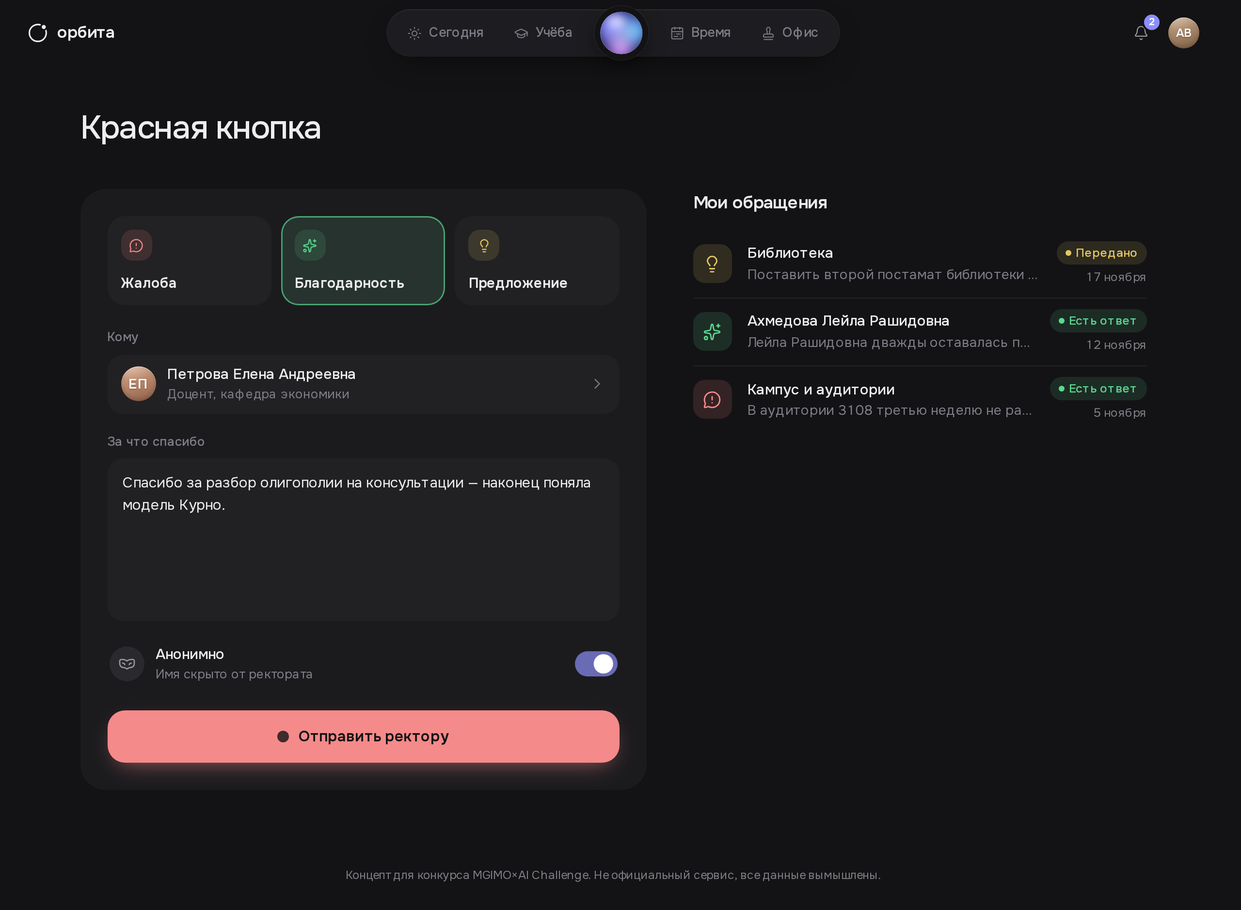
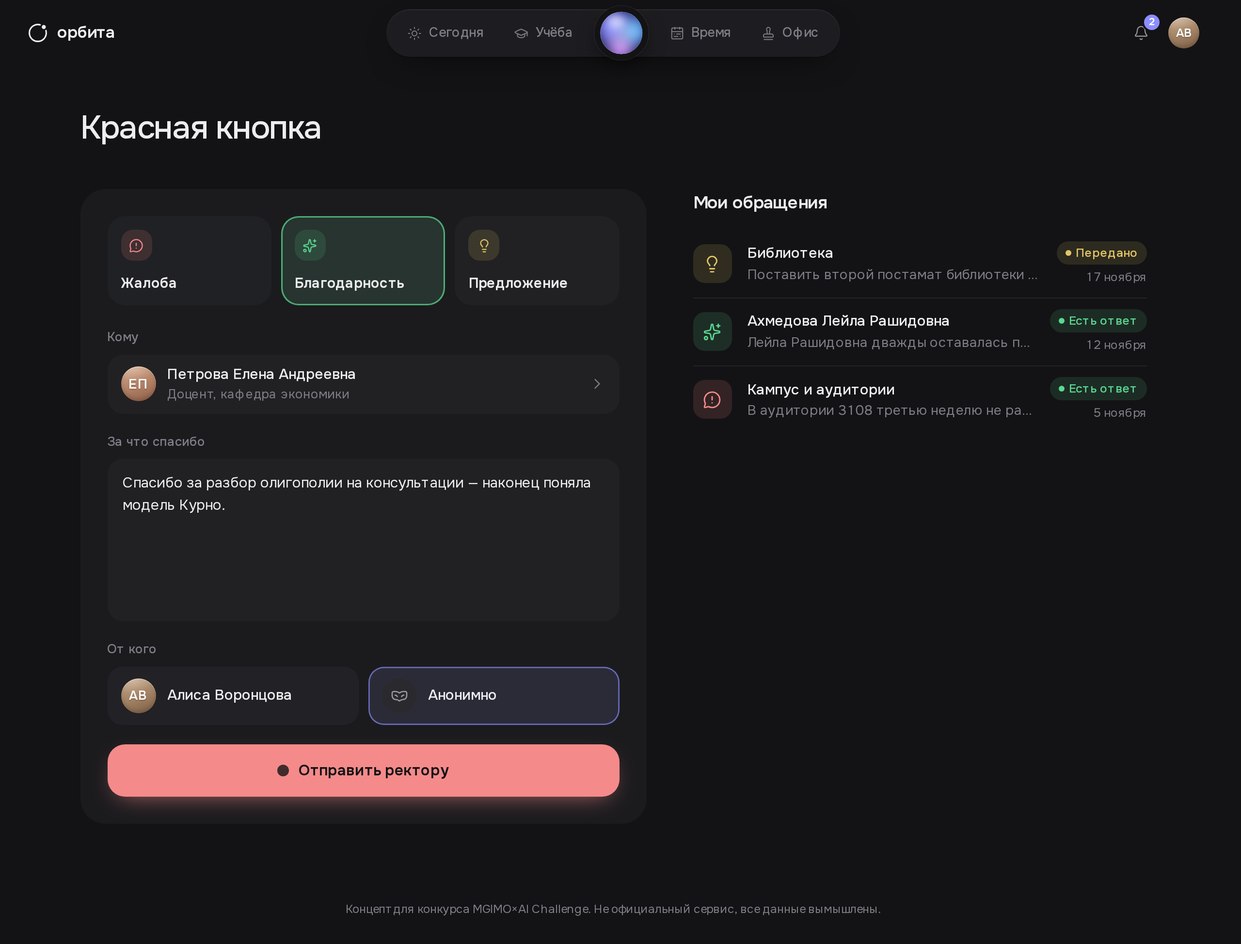
Красная кнопка: «От кого» — своё имя или анонимно, двумя вариантами
Вместо переключателя в строке автора (непонятно, что он переключает, пока не нажмёшь) —
поле «От кого» с двумя вариантами рядом, как плитки вида обращения: аватар с именем
или маска «Анонимно». На телефоне — только имя, всё помещается от 360 px.

diff --git a/web/src/components/appeals/appeals-view.tsx b/web/src/components/appeals/appeals-view.tsx
@@ -7,7 +7,6 @@ import {
   MessageCircleWarning, Search, ShieldCheck, Sparkles, UtensilsCrossed, VenetianMask, type LucideIcon,
 } from "lucide-react";
 import { Modal } from "@/components/time/modal";
-import { Switch } from "@/components/profile/privacy";
 import { useToast } from "@/components/ui/toast";
 import { KINDS, RECTOR_OFFICE, STATUS, TEXT_MAX, TEXT_MIN, kindOf, type AppealKind } from "@/lib/appeals";
 import { cn } from "@/lib/utils";
@@ -204,25 +203,53 @@ export function AppealsView({ data }: { data: AppealsData }) {
             />
           </label>
 
-          <label className="mt-4 flex min-h-[56px] cursor-pointer items-center gap-3 rounded-[16px] px-0.5" data-author>
-            {anonymous ? (
-              <span className="grid size-9 shrink-0 place-items-center rounded-full bg-s3 text-text-2" aria-hidden="true">
-                <VenetianMask size={18} strokeWidth={1.7} />
-              </span>
-            ) : data.me.photo ? (
-              // eslint-disable-next-line @next/next/no-img-element
-              <img src={data.me.photo} alt="" className="size-9 shrink-0 rounded-full object-cover" />
-            ) : (
-              <span aria-hidden="true" className="mono grid size-9 shrink-0 place-items-center rounded-full text-[13px] font-semibold" style={{ background: data.me.gradient }}>
-                {data.me.initials}
-              </span>
-            )}
-            <span className="min-w-0 flex-1">
-              <b className="block truncate font-medium">{anonymous ? "Анонимно" : data.me.name}</b>
-              <small className="block truncate text-[13px] text-text-3">{anonymous ? "Имя скрыто от ректората" : data.me.line}</small>
+          <div className="mt-5">
+            <span className={LABEL} id="appeal-from">
+              От кого
             </span>
-            <Switch on={anonymous} label="Анонимно" onClick={() => setAnonymous((v) => !v)} />
-          </label>
+            <div role="radiogroup" aria-labelledby="appeal-from" className="grid grid-cols-2 gap-2.5 max-sm:gap-2" data-author>
+              {([false, true] as const).map((anon) => {
+                const on = anonymous === anon;
+                return (
+                  <button
+                    key={String(anon)}
+                    type="button"
+                    role="radio"
+                    aria-checked={on}
+                    data-from={anon ? "anon" : "me"}
+                    onClick={() => setAnonymous(anon)}
+                    className={cn(
+                      "flex min-h-[60px] min-w-0 items-center gap-3 rounded-[16px] px-3.5 py-2.5 text-left transition-[background,box-shadow,transform] duration-300 ease-spring active:scale-[.97] max-sm:gap-2 max-sm:px-2.5 max-sm:[&>img]:size-8 max-sm:[&>span]:size-8",
+                      on ? "bg-[color-mix(in_srgb,var(--accent)_10%,var(--s2))] shadow-[inset_0_0_0_1.5px_color-mix(in_srgb,var(--accent)_70%,transparent)]" : "bg-s2 hover:bg-s3",
+                    )}
+                  >
+                    {anon ? (
+                      <span className="grid size-9 shrink-0 place-items-center rounded-full bg-s3 text-text-2" aria-hidden="true">
+                        <VenetianMask size={18} strokeWidth={1.7} />
+                      </span>
+                    ) : data.me.photo ? (
+                      // eslint-disable-next-line @next/next/no-img-element
+                      <img src={data.me.photo} alt="" className="size-9 shrink-0 rounded-full object-cover" />
+                    ) : (
+                      <span aria-hidden="true" className="mono grid size-9 shrink-0 place-items-center rounded-full text-[13px] font-semibold" style={{ background: data.me.gradient }}>
+                        {data.me.initials}
+                      </span>
+                    )}
+                    <b className="min-w-0 truncate font-medium max-sm:text-[14.5px]">
+                      {anon ? (
+                        "Анонимно"
+                      ) : (
+                        <>
+                          <span className="max-sm:hidden">{data.me.name}</span>
+                          <span className="sm:hidden">{data.me.name.split(" ")[0]}</span>
+                        </>
+                      )}
+                    </b>
+                  </button>
+                );
+              })}
+            </div>
+          </div>
 
           <button
             type="button"

diff --git a/docs/vision.md b/docs/vision.md
@@ -189,6 +189,6 @@
 - 2026-11-21: поиск людей, по замечаниям. Расписание в карточке — **личное**, а не групповое: пары курсов, на которые записан человек (у одногруппников разные курсы по выбору); из пар с шифром группы — только своей группы и потока. Приватность — окном (кнопка «Приватность» у контактов в профиле и на своей карточке), там же «Как меня видят другие». Справочник наполнен: 5 факультетов, 11 программ, ~90 групп, ~1800 студентов, ~70 преподавателей, ~250 курсов с расписанием демо-недели (`prisma/seed-directory.ts`, детерминированный генератор, входа у этих аккаунтов нет). Плитка «Преподаватели» убрана — есть «Люди» (закреплена по умолчанию). Расписание в карточке (студент и преподаватель) — полоса дней Пн–Сб и пары одного дня строками, монохромно, цвет курса только точкой: цветная сетка недели читалась тяжело. Неделю можно листать стрелками ‹ › на ±3 недели, как во «Времени» (`?week=<понедельник>`); у справочника одинаковые недели с 26 октября по 12 декабря, у курсов демо-студентов пары есть только 16–27 ноября (как в их «Времени»). На телефоне контакты над расписанием. Помощник: «кто староста», «почта куратора», «кто куратор у Жукова», «расписание Матвея Жукова на вторник», «пары Петровой завтра».
 - 2026-11-22: кабинет преподавателя (`e.petrova`), каркас на тех же адресах, что у студента: раздел выбирается по роли на сервере. «Сегодня» — ближайшая пара с группой, аудиторией и числом студентов, «Дальше сегодня», плитки (Проверка со счётчиком, Журнал, Консультации, Курсы, Люди, Печать), очередь «На проверке» и курсы со средним баллом. «Курсы» (в доке вместо «Учёбы»): карточки курсов, «Проверка» (работы старые сверху, окно: файл, быстрая оценка 5–10, комментарий, «На доработку») и «Журнал» (студенты × элементы формулы, правка в ячейке, агрегаты и итог считаются сами). Проверка сразу видна студенту: статус, балл и уведомление. Страница курса: цифры, задания со сдачей, материалы (заглушка), формула, команда; **учебные ассистенты** — старшекурсники и магистранты (не студенты курса), права «проверять работы» и «ставить оценки» переключателями (`CourseAssistant`). «Время» — та же сетка, что у студента, плюс свои слоты консультаций (новый слот сразу виден студентам курса). «Офис» — ведомости и заявки (каркас), «Печать» открыта преподавателям. Связь преподавателя-пользователя со справочником — по университетской почте. Второй курс Петровой — магистерская «Экономика цифровых платформ» (ЦЭ-26-М). Проверка — `scripts/teach-check.mjs`.
 - 2026-11-22: бронирование аудиторий (`/rooms`, плитка «Аудитории» на «Сегодня»), как в ИТМО и как переговорки в больших компаниях. Бронируются переговорки для групповой работы (8 комнат с именами звёзд: «Вега», «Лира», «Орион»…) и учебные аудитории, когда в них нет пар (занятость — из расписания всех групп в БД и пар других групп по сетке звонков). Выбор: день (неделя вперёд, без воскресенья), начало с шагом 30 минут, длительность 30 мин – 2 ч, тип, сколько человек, оснащение (экран, доска, видеосвязь). У каждой комнаты — полоса дня 08:00–21:00 с занятым и выбранным временем; свободные — первыми. Отметка у двери по Орбита ID: за 15 минут до начала и до 15 минут после; не отметился — бронь снимается сама и комната свободна (как в бигтехе, против «мёртвых» броней). Можно освободить раньше. Правила на сервере: шаг и часы работы, не в прошлом, не на паре, без пересечений (в транзакции), не больше 3 будущих броней. Чужие брони — только «занято», без имён. Доступ — студентам и преподавателям: у преподавателя плитка «Аудитории» на «Сегодня» вместо «Мои курсы» (курсы и так во вкладке «Учёба» в доке). Проверки — `scripts/rooms-check.mjs`.
-- 2026-11-22: «Красная кнопка» (`/redbutton`, плитка на «Сегодня» в «Ещё», пункт в меню профиля у всех ролей) — по мотивам горячей линии «Выразительная кнопка» ВШЭ: жалоба, благодарность или предложение уходят в приёмную ректора, оттуда — в подразделение. Адресат выбирается из справочника: мои преподаватели наверху, все преподаватели, сотрудники и службы (вымышленные, `src/lib/appeals.ts`) или «Университет в целом». Анонимность — переключатель: автор хранится, чтобы видеть свои обращения, но ректорат имени не видит. В отличие от ВШЭ, где ответ приходит на почту, у нас трекер «как у посылки» (отправлено → приёмная ректора → передано → ответ), срок ответа 5 дней и уведомление об ответе. Не больше 5 обращений в сутки.
+- 2026-11-22: «Красная кнопка» (`/redbutton`, плитка на «Сегодня» в «Ещё», пункт в меню профиля у всех ролей) — по мотивам горячей линии «Выразительная кнопка» ВШЭ: жалоба, благодарность или предложение уходят в приёмную ректора, оттуда — в подразделение. Адресат выбирается из справочника: мои преподаватели наверху, все преподаватели, сотрудники и службы (вымышленные, `src/lib/appeals.ts`) или «Университет в целом». Анонимность — выбор «От кого»: своё имя или «Анонимно» (два варианта рядом; переключатель в строке автора оказался непонятным). Автор хранится, чтобы видеть свои обращения, но ректорат имени не видит. В отличие от ВШЭ, где ответ приходит на почту, у нас трекер «как у посылки» (отправлено → приёмная ректора → передано → ответ), срок ответа 5 дней и уведомление об ответе. Не больше 5 обращений в сутки.
 - 2026-11-22: «Аудитории» — бронь на три недели вперёд вместо одной (по просьбе пользователя): полоса по-прежнему из 6 дней, над ней диапазон дат и стрелки ‹ › (3 страницы, воскресенья пропускаются, до 9 декабря на демо-часах). Чужие брони на 2–3 неделе в сиде реже, чем на ближайшей. Лимит «не больше 3 броней вперёд» и отметка по Орбита ID не меняются.
 - 2026-11-22: «Еда» (`/food`, плитка «Еда» на «Сегодня» в «Ещё»): столовая, две кофейни-кафе, терраса библиотеки и фреш-бар — часы, «открыто сейчас», загруженность по получасам, меню с ценами и пометками (вегетарианское, острое, сезонное, новинка). Только просмотр, без предзаказа (решение пользователя). Меню — каталог в коде (`server/data/food.ts`), как сетка звонков: оно общее и не персональное. Загруженность считается от сетки звонков — наплыв на переменах, сильнее всего на большой (12:30–13:00), поэтому в 11:49 в столовой «свободно, наплыв в 12:30». Связка с Random Coffee: место встречи — ссылка на окно кафе (`/food?place=<slug>`), на карточке кафе — отметка встречи этой недели. Помощник отвечает на «где поесть» и «что в столовой».

diff --git a/CLAUDE.md b/CLAUDE.md
@@ -24,7 +24,7 @@
 
 ## Состояние проекта
 
-- Готово на сайте (`web/`): вход, «Сегодня», «Учёба», «Время» (сетка звонков, групповые консультации), «Офис» (заявки, PDF-справки с QR, публичная проверка `/verify/[token]`), «Профиль» (`/profile`: учёба, контакты с правкой в строке, окно студенческого с QR — это же Орбита ID, плитка «Орбита ID» на «Сегодня»; на «Сегодня» первые 5 плиток из порядка студента и «Ещё» с перетаскиванием), центр уведомлений (колокольчик, шторка, «Новое», полоса срочного — `docs/notifications.md`), архив курсов (`/study/archive`: прошлые семестры с оценками и формулой — из «Успеваемости» и профиля), страница курса (`/study/<slug>`: формула, автомат, калькулятор, задания, программа дисциплины), окно задания со сдачей файла (`?task=<id>`), карточки преподавателей (`/people/<slug>`), страница семестра (`/study/semester/<n>`), пройденный курс с материалами (настоящий PDF) и работами, темы и демоверсии контрольных и экзаменов (`/study/<slug>?comp=<id>`), «К занятию» в окне пары, рейтинг на курсе (`/study/rating`), объявление-конкурс мобильности с заявкой в «Офис» (`/news/mobility-spring-2027`), клубы (`/clubs`), библиотека (`/library`: «Мои книги» — заказы с трекером, постамат по Орбита ID, на руках, история; «Каталог» — поиск, разделы, заказ в постамат или на станцию; читалка), печать и сканы по Орбита ID (`/print`), ИИ-помощник (сфера в доке / Ctrl+K, имитация без модели: ответы по данным, справка, запись на консультацию), Random Coffee (`/coffee`: пара недели со студентом другого факультета по интересам, время из расписаний обоих, Telegram после согласия обоих), поиск людей (`/people`: ~1800 студентов и ~90 преподавателей из `prisma/seed-directory.ts`, карточка студента `/people/<логин>` — почта всегда, личное расписание по его курсам с листанием недель, телефон и Telegram по окну «Приватность»; плитка «Люди», помощник: староста, куратор, расписание человека), онбординг первокурсницы (`/welcome`: приветствие, данные, контакты, фото, выпуск Орбита ID; сбрасывается при каждом входе `n.lanskaya`; потом «Первые шаги» на «Сегодня»), бронирование аудиторий (`/rooms`: переговорки и свободные аудитории, полоса дня, фильтры по местам и оснащению, отметка по Орбита ID за 15 минут, иначе бронь снимается; плитка «Аудитории»), «Красная кнопка» (`/redbutton`: жалоба, благодарность или предложение в приёмную ректора с выбором преподавателя, сотрудника или службы, анонимно по переключателю, «Мои обращения» с трекером и ответом; плитка на «Сегодня», пункт в меню профиля), еда на кампусе (`/food`: столовая, кофейни и кафе — часы, загруженность от перемен, меню с ценами; место встречи Random Coffee ведёт в окно кафе; плитка «Еда», помощник «где поесть»), кабинет преподавателя (`e.petrova`, каркас на тех же адресах по роли: «Сегодня», «Курсы» — проверка работ и журнал, страница курса с ассистентами, «Время» со слотами консультаций, «Офис» — заглушка, «Печать»; данные — `src/server/data/teach.ts`, действия — `src/server/teach/actions.ts`).
+- Готово на сайте (`web/`): вход, «Сегодня», «Учёба», «Время» (сетка звонков, групповые консультации), «Офис» (заявки, PDF-справки с QR, публичная проверка `/verify/[token]`), «Профиль» (`/profile`: учёба, контакты с правкой в строке, окно студенческого с QR — это же Орбита ID, плитка «Орбита ID» на «Сегодня»; на «Сегодня» первые 5 плиток из порядка студента и «Ещё» с перетаскиванием), центр уведомлений (колокольчик, шторка, «Новое», полоса срочного — `docs/notifications.md`), архив курсов (`/study/archive`: прошлые семестры с оценками и формулой — из «Успеваемости» и профиля), страница курса (`/study/<slug>`: формула, автомат, калькулятор, задания, программа дисциплины), окно задания со сдачей файла (`?task=<id>`), карточки преподавателей (`/people/<slug>`), страница семестра (`/study/semester/<n>`), пройденный курс с материалами (настоящий PDF) и работами, темы и демоверсии контрольных и экзаменов (`/study/<slug>?comp=<id>`), «К занятию» в окне пары, рейтинг на курсе (`/study/rating`), объявление-конкурс мобильности с заявкой в «Офис» (`/news/mobility-spring-2027`), клубы (`/clubs`), библиотека (`/library`: «Мои книги» — заказы с трекером, постамат по Орбита ID, на руках, история; «Каталог» — поиск, разделы, заказ в постамат или на станцию; читалка), печать и сканы по Орбита ID (`/print`), ИИ-помощник (сфера в доке / Ctrl+K, имитация без модели: ответы по данным, справка, запись на консультацию), Random Coffee (`/coffee`: пара недели со студентом другого факультета по интересам, время из расписаний обоих, Telegram после согласия обоих), поиск людей (`/people`: ~1800 студентов и ~90 преподавателей из `prisma/seed-directory.ts`, карточка студента `/people/<логин>` — почта всегда, личное расписание по его курсам с листанием недель, телефон и Telegram по окну «Приватность»; плитка «Люди», помощник: староста, куратор, расписание человека), онбординг первокурсницы (`/welcome`: приветствие, данные, контакты, фото, выпуск Орбита ID; сбрасывается при каждом входе `n.lanskaya`; потом «Первые шаги» на «Сегодня»), бронирование аудиторий (`/rooms`: переговорки и свободные аудитории, полоса дня, фильтры по местам и оснащению, отметка по Орбита ID за 15 минут, иначе бронь снимается; плитка «Аудитории»), «Красная кнопка» (`/redbutton`: жалоба, благодарность или предложение в приёмную ректора с выбором преподавателя, сотрудника или службы, анонимно по выбору «От кого», «Мои обращения» с трекером и ответом; плитка на «Сегодня», пункт в меню профиля), еда на кампусе (`/food`: столовая, кофейни и кафе — часы, загруженность от перемен, меню с ценами; место встречи Random Coffee ведёт в окно кафе; плитка «Еда», помощник «где поесть»), кабинет преподавателя (`e.petrova`, каркас на тех же адресах по роли: «Сегодня», «Курсы» — проверка работ и журнал, страница курса с ассистентами, «Время» со слотами консультаций, «Офис» — заглушка, «Печать»; данные — `src/server/data/teach.ts`, действия — `src/server/teach/actions.ts`).
 - Дальше по плану: кабинет учебного офиса, наполнение курсов преподавателем, деплой, отчёт для жюри.
 - Демо-часы фиксированы: чт 19.11.2026 11:49 МСК (`web/src/lib/demo-clock.ts`). Сетка звонков — `web/src/lib/bells.ts`.
 - Демо-аккаунты (пароль у всех `orbita-demo`): `a.vorontsova` и `m.orlov` (студенты с разными данными), `n.lanskaya` (первокурсница, онбординг), `e.petrova` (преподаватель), `office` (учебный офис).

diff --git a/docs/design.md b/docs/design.md
@@ -215,7 +215,7 @@
 
 ## Красная кнопка (22.11)
 
-`/redbutton`: слева карточка-форма — три плитки вида (жалоба красная, благодарность зелёная, предложение жёлтая; на телефоне короткие подписи «Спасибо», «Идея»), «Кому» — строка, открывающая окно выбора с поиском (на телефоне шторка во весь экран), поле текста с подписью по виду, строка автора с переключателем «Анонимно» (аватар меняется на маску) и сама красная кнопка «Отправить ректору» — единственная залитая цветом кнопка в интерфейсе, это и есть образ раздела. Справа «Мои обращения» строками: значок вида, адресат, начало текста, справа статус и дата. Окно обращения — текст, трекер этапов, ответ приёмной ректора.
+`/redbutton`: слева карточка-форма — три плитки вида (жалоба красная, благодарность зелёная, предложение жёлтая; на телефоне короткие подписи «Спасибо», «Идея»), «Кому» — строка, открывающая окно выбора с поиском (на телефоне шторка во весь экран), поле текста с подписью по виду, «От кого» — два варианта рядом, как плитки вида: своё имя с аватаром или «Анонимно» с маской (сначала был переключатель в строке автора — непонятно, что он переключает, пока не нажмёшь) и сама красная кнопка «Отправить ректору» — единственная залитая цветом кнопка в интерфейсе, это и есть образ раздела. Справа «Мои обращения» строками: значок вида, адресат, начало текста, справа статус и дата. Окно обращения — текст, трекер этапов, ответ приёмной ректора.
 
 ## Еда (22.11)
 

diff --git a/docs/ui-guide.md b/docs/ui-guide.md
@@ -87,7 +87,7 @@
 | Полноэкранные шаги с точками-индикатором, холст «точки собираются в знак», карта Орбита ID с переворотом | `components/onboarding/*` (стили — `onboarding.css`: CSS-модули в проекте не работают, `*.css` идут через Tailwind как глобальные) |
 | Кабинет преподавателя: строка работы (студент, задание с точкой курса, справа статус или оценка), окно проверки с быстрой оценкой, журнал-таблица с правкой в ячейке, команда курса и окно ассистента с правами | `components/teach/*` |
 | Полоса дня (занято / своё / выбранное время, «сейчас», штриховка прошедшего), фильтры «сколько вас» и чипы оснащения | `components/rooms/rooms-view.tsx` (`Timeline`) |
-| Выбор вида плитками (`role="radio"`, цветная обводка у выбранной), поле «Кому» с окном поиска по группам, строка автора с переключателем «Анонимно» | `components/appeals/appeals-view.tsx` |
+| Выбор вида плитками (`role="radio"`, цветная обводка у выбранной), поле «Кому» с окном поиска по группам, «От кого» — два варианта рядом (своё имя / «Анонимно»), а не переключатель | `components/appeals/appeals-view.tsx` |
 | Загруженность по получасам (столбцы, «сейчас» — акцентом), индикатор «Свободно / Средне / Многолюдно» тремя столбиками, строки меню «название — цена» | `components/food/food-view.tsx` |
 | Аватар с фото (смена по нажатию) | `components/profile/profile-photo.tsx`, адрес фото — `photoUrl()` из `lib/user-view.ts` |
 
